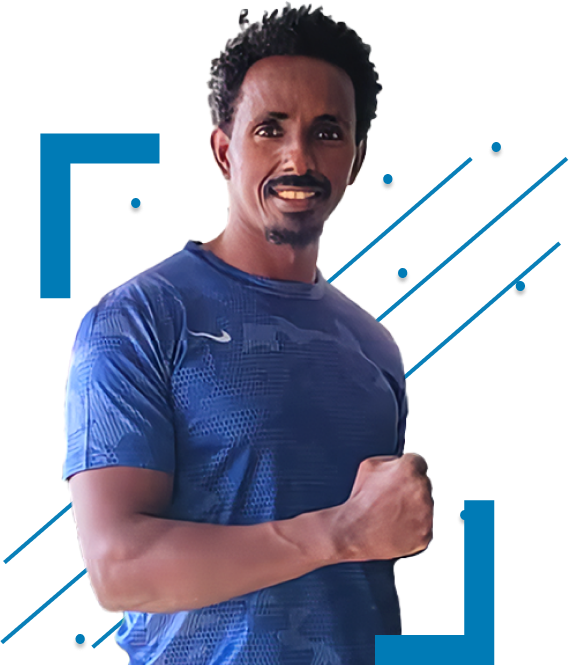
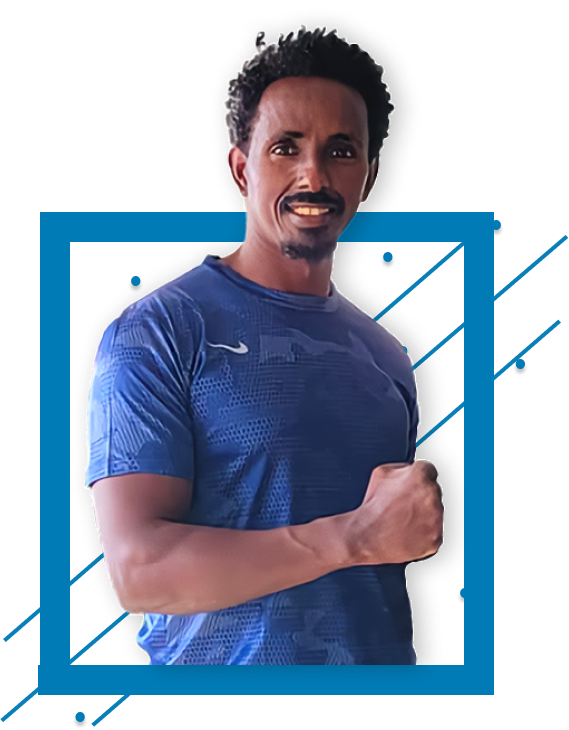
fixed gradient responsiveness on meet trainers section and changed the bg imgs

diff --git a/index.html b/index.html
@@ -253,7 +253,7 @@
 
       <div>
         <ul class="slider2">
-          <li id="coach-1">
+          <li id="coach-1" class="blue-bg">
             <img src="/resources/c1-pic.png" alt="">
             <div class="coach-info">
               <p class="coach-name" style="-webkit-text-stroke: 3px var(--clr-primary-300);">James Parker</p>
@@ -266,7 +266,7 @@
                 goals.</p>
             </div>
           </li>
-          <li id="coach-2">
+          <li id="coach-2" class="yellow-bg">
             <div class="coach-info">
 
               <p class="coach-name" style="-webkit-text-stroke: 3px var(--clr-accent-400);">Habtamu Girma</p>
@@ -281,7 +281,7 @@
             <img src="resources/c2-pic.png" alt="">
           </li>
 
-          <li id="coach-3">
+          <li id="coach-3" class="green-bg">
             <img src="resources/c3-pic.png" alt="">
             <div class="coach-info">
               <p class="coach-name" style="-webkit-text-stroke: 3px rgb(0, 199, 161);">Mike Smith</p>
@@ -296,7 +296,7 @@
             </div>
           </li>
 
-          <li id="coach-4">
+          <li id="coach-4" class="blue-bg">
             <div class="coach-info">
               <p class="coach-name" style="-webkit-text-stroke: 3px #007BB6;">Mike Smith</p>
               <p class="coach-bio">Hi there! My name is Emily and I'm one of the coaches at Altius Gym. I'm 28 years old
@@ -310,6 +310,20 @@
             </div>
             <img src="resources/c4-pic.png" alt="">
 
+          </li>
+
+          <li id="coach-5" class="yellow-bg">
+            <img src="/resources/c5-pic.png" alt="">
+            <div class="coach-info">
+              <p class="coach-name" style="-webkit-text-stroke: 3px var(--clr-accent-400);">James Parker</p>
+              <p class="coach-bio">Hi, I'm James and I'm 32 years old. I have a degree in Exercise Science and I've been
+                a personal
+                trainer
+                for over 10
+                years. I specialize in weightlifting and strength training, and I love to help people reach their
+                fitness
+                goals.</p>
+            </div>
           </li>
         </ul>
 

diff --git a/index.css b/index.css
@@ -488,6 +488,7 @@ h1,
 
 /* meet coaches */
 .slider2 li {
+  position: relative;
   background-repeat: no-repeat;
   background-position: bottom;
   background-size: 100% 83%;
@@ -503,23 +504,44 @@ h1,
 
 .slider2>li:nth-child(even) {
   text-align: left;
-
 }
 
-#coach-1 {
-  background-image: url("/resources/c1-bg.png");
+.slider2>li:nth-child(even)::before {
+  content: "";
+  position: absolute;
+  top: 0;
+  left: 0;
+  width: 60%;
+  height: 100%;
+  background: linear-gradient(270deg, rgba(0, 0, 0, 0.00) 2.75%, rgba(0, 0, 0, 0.57) 42.16%, #000 100%);
+  pointer-events: none;
 }
 
-#coach-2 {
-  background-image: url("/resources/c2-bg.png");
+.slider2>li:nth-child(odd)::before {
+  content: "";
+  position: absolute;
+  top: 0;
+  right: 0;
+  width: 60%;
+  height: 100%;
+  background: linear-gradient(90deg, rgba(0, 0, 0, 0.00) 2.75%, rgba(0, 0, 0, 0.57) 42.16%, #000 100%);
+  pointer-events: none;
 }
 
-#coach-3 {
-  background-image: url("/resources/c3-bg.png");
+.blue-bg {
+  background-image: url("/resources/bg-blue.png");
 }
 
-#coach-4 {
-  background-image: url("/resources/c3-bg.png");
+.yellow-bg {
+  background-image: url("/resources/bg-yellow.png");
+}
+
+.green-bg {
+  background-image: url("/resources/bg-green.png");
+}
+
+.coach-info {
+  z-index: 2;
 }
 
 .coach-name {
@@ -527,6 +549,8 @@ h1,
   font-size: max(37px, 6vw);
   font-family: 'Roboto' sans-serif;
   font-weight: var(--fw-semi-bold);
+  margin-bottom: 10px;
+  line-height: 4rem;
 }
 
 
@@ -546,8 +570,24 @@ h1,
 
   }
 
+  .slider2>li:nth-child(odd)::before,
+  .slider2>li:nth-child(even)::before {
+    top: auto;
+    bottom: 0;
+    right: 0;
+    left: 0;
+    width: 100%;
+    height: 50%;
+    background: linear-gradient(180deg, rgba(0, 0, 0, 0.00) 2.75%, rgba(0, 0, 0, 0.57) 42.16%, #000 100%);
+  }
+
   .coach-info {
     text-align: center;
+  }
+  .coach-name {
+    -webkit-text-stroke-width: 2px !important; 
+    line-height: 3rem;
+
   }
 
   .coach-bio {
